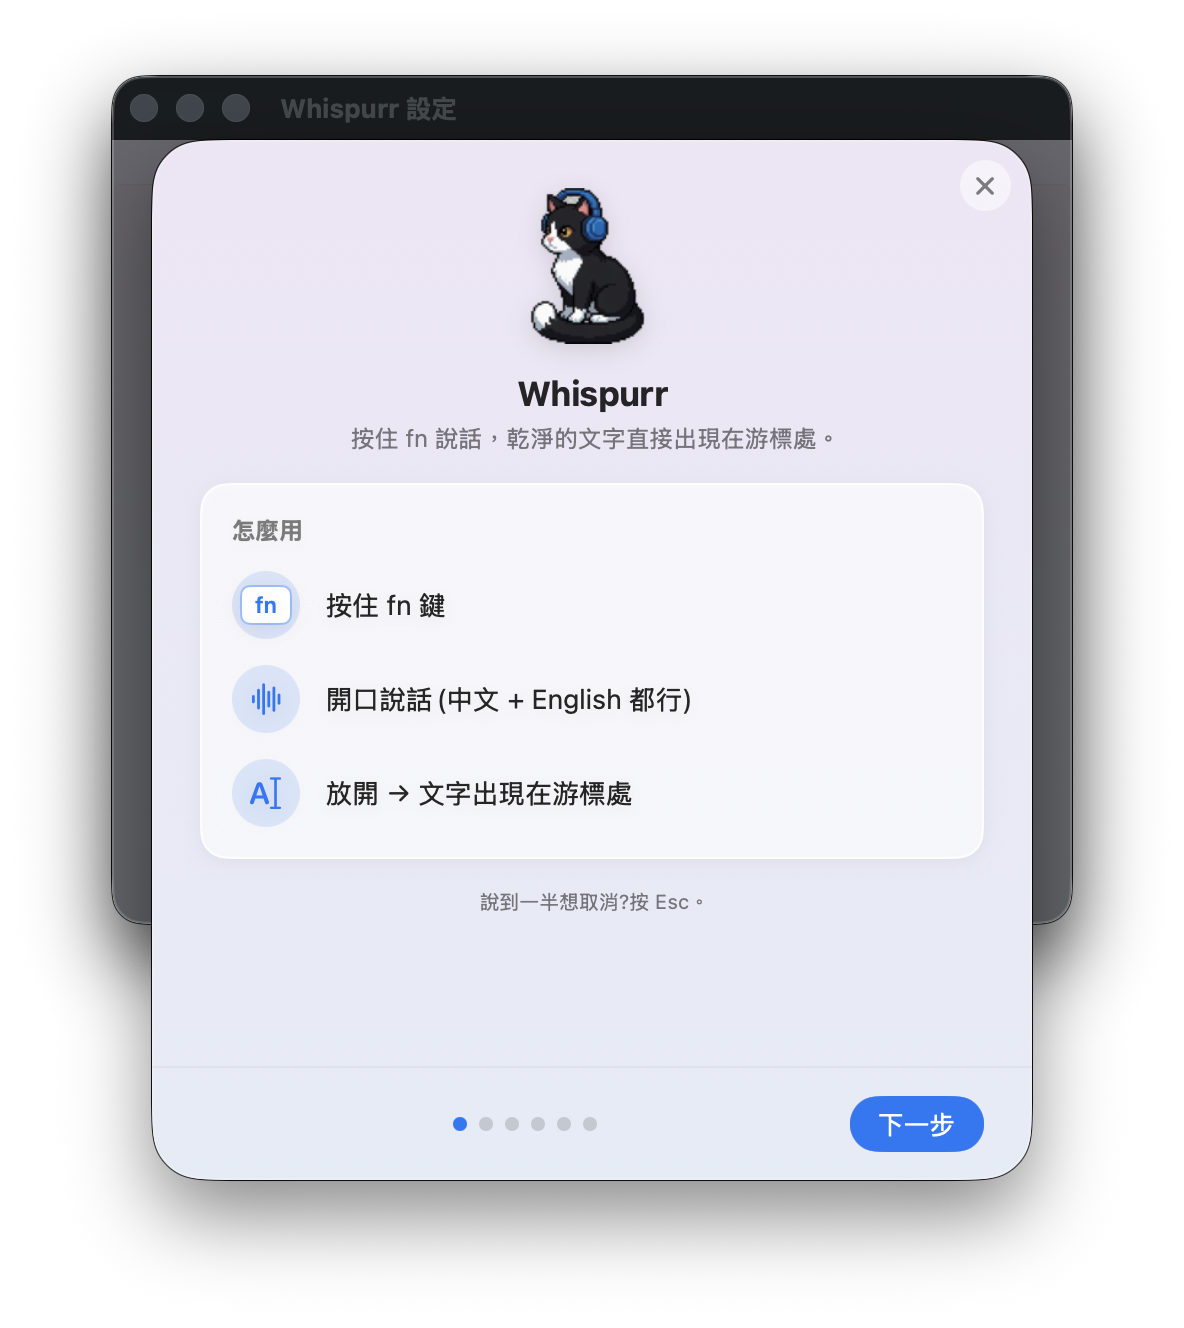
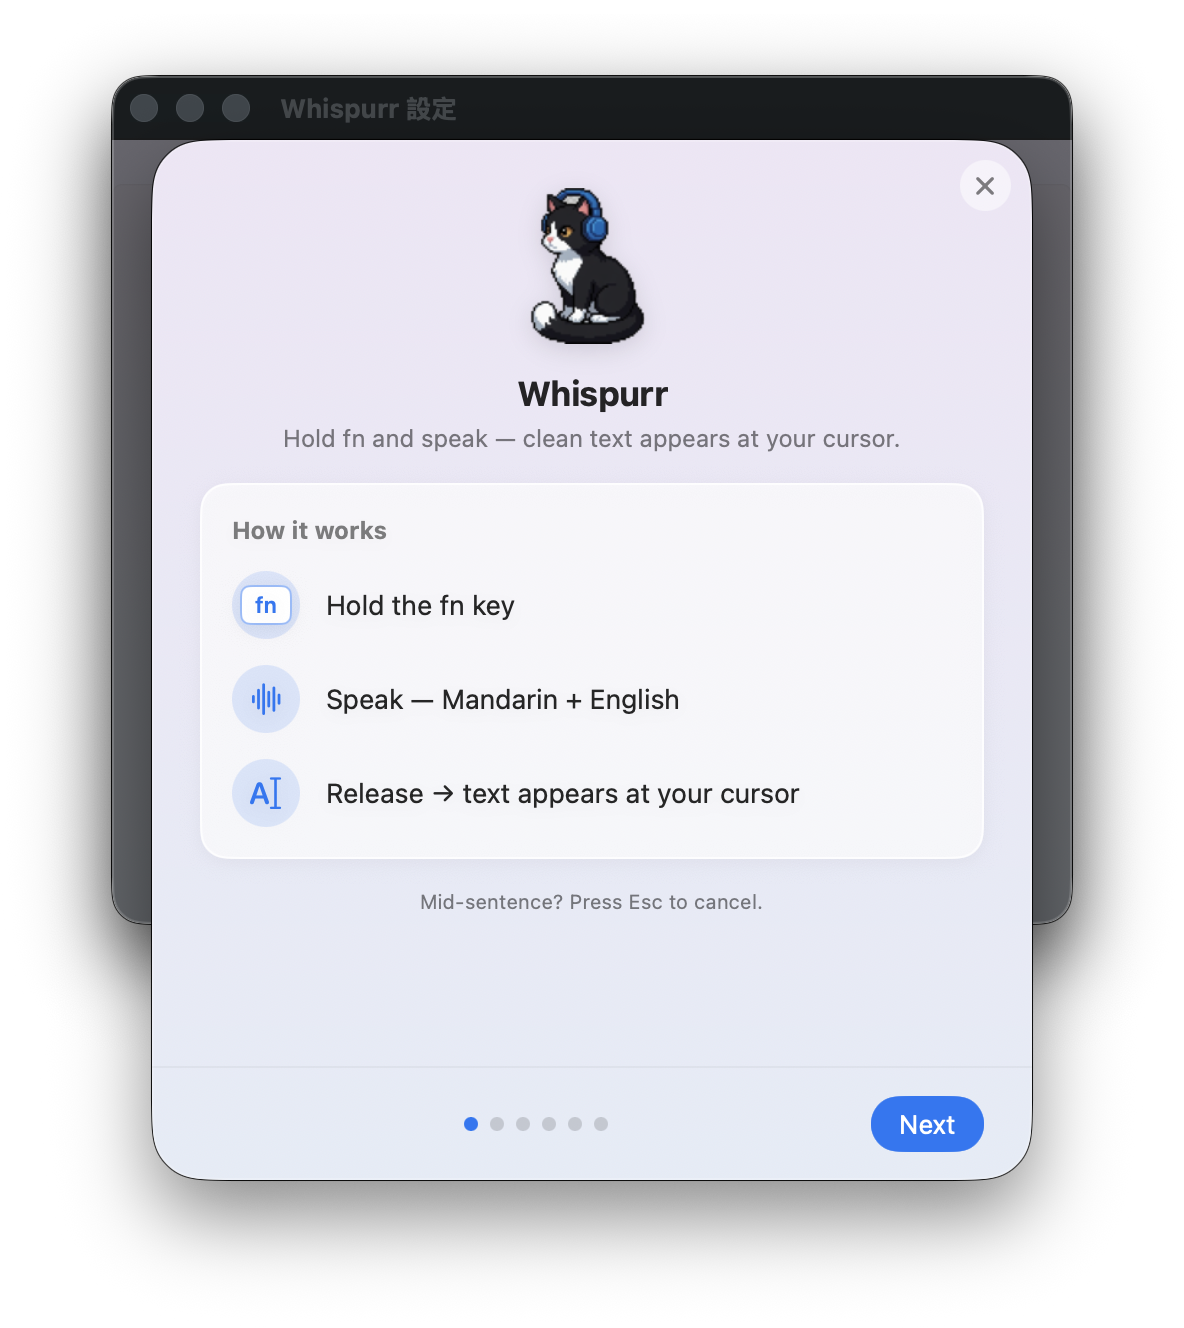
docs: language-matched README screenshots — English on the EN section, 中文 on the 中文 section

diff --git a/README.md b/README.md
@@ -228,11 +228,11 @@ Three layers, dependency-injected behind protocols and unit-tested:
 <table>
 <tr>
 <td width="50%" valign="top">
-  <img src="assets/onboarding.png" alt="首次啟動的權限視窗">
+  <img src="assets/onboarding-zh.png" alt="首次啟動的設定引導">
   <p align="center"><em>首次啟動的設定引導——權限 + 選用的 Apple Intelligence</em></p>
 </td>
 <td width="50%" valign="top">
-  <img src="assets/settings.png" alt="設定視窗">
+  <img src="assets/settings-zh.png" alt="設定視窗">
   <p align="center"><em>單一設定視窗——聽寫、整稿、詞彙、權限</em></p>
 </td>
 </tr>